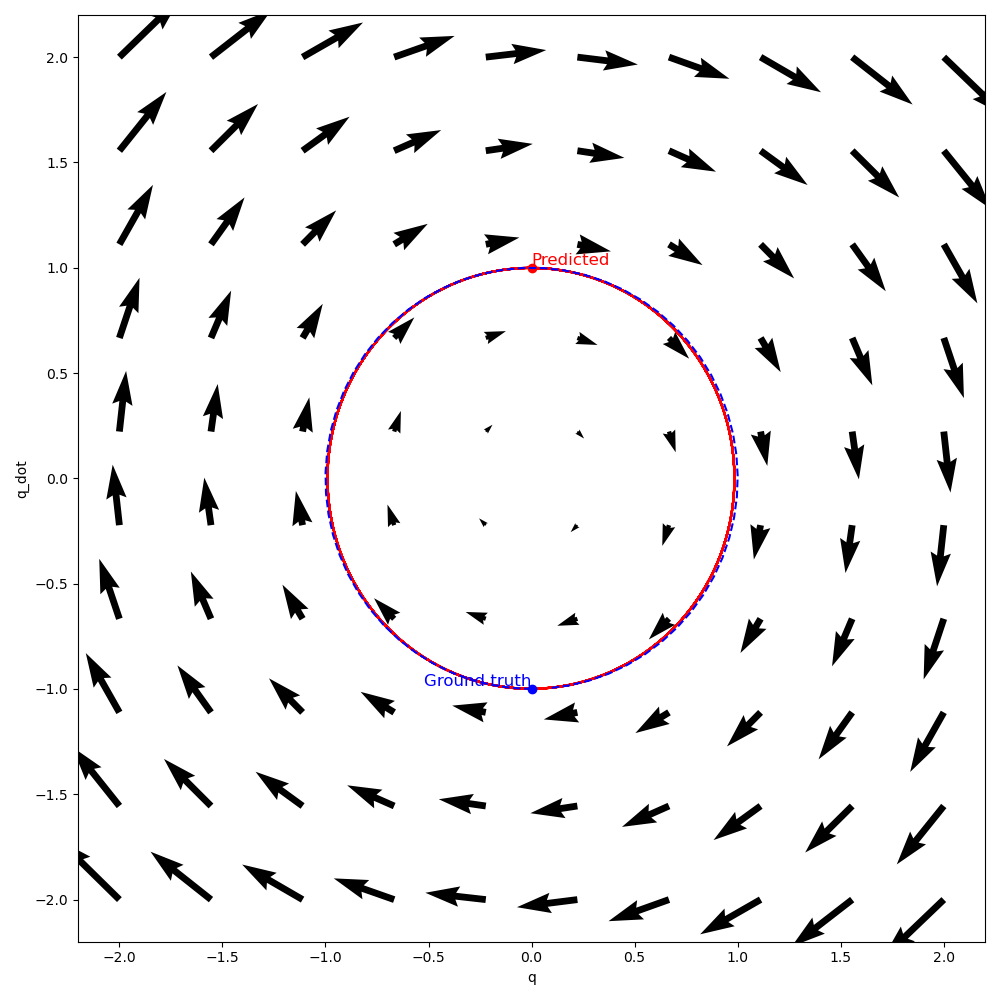
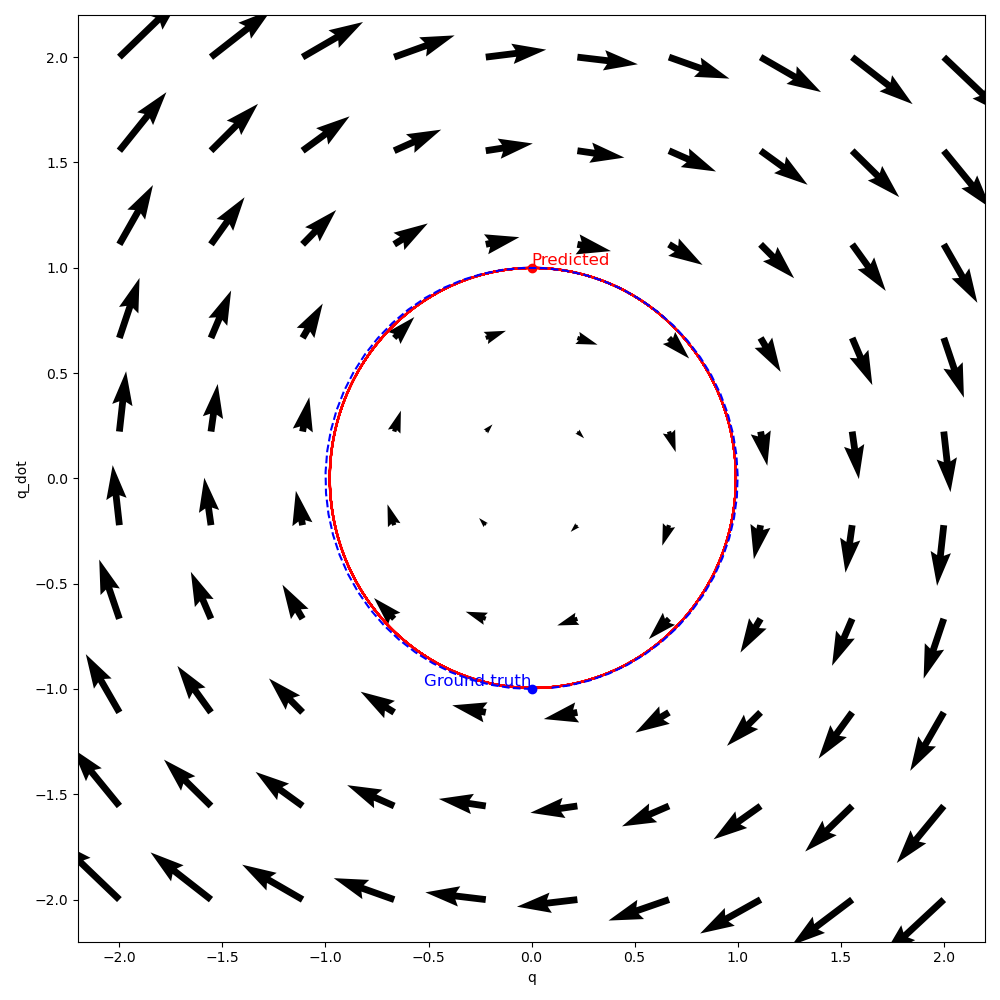
sigma=0.05

diff --git a/harmonic_oscillator.py b/harmonic_oscillator.py
@@ -33,7 +33,7 @@ def harmonic_oscillator_generate_path(t_range_start, t_range_end, dt, amplitude,
         dataset.append([q, q_dot])
         targets.append(q_dot_dot)
         
-    dataset = torch.tensor(dataset, dtype=torch.float32, device=device, requires_grad=True)
+    dataset = torch.tensor(dataset, dtype=torch.float32, device=device)
     targets = torch.tensor(targets, dtype=torch.float32, device=device)
     return dataset, targets
 
@@ -44,6 +44,14 @@ def generate_harmonic_oscillator_dataset(device):
     path_start = random.randint(0, 314)/100
 
     dataset, targets = harmonic_oscillator_generate_path(path_start, path_start + 2*pi, 0.1, random_amplitude, random_phi, device)
+
+    noise = torch.randn_like(dataset) * 0.05
+    dataset += noise
+
+    dataset.requires_grad_()
+    
+    noise = torch.randn_like(targets) * 0.05
+    targets += noise
 
     return dataset, targets
 
@@ -60,11 +68,12 @@ def train_iteration_cb(model, i, mean_losses):
 
 def main():
     model = load_model_or_make_new(model_path, device)
-    train_loop(model, 1e-4, 10, generate_harmonic_oscillator_dataset, device, train_iteration_cb)
+    train_loop(model, 1e-3, 400, generate_harmonic_oscillator_dataset, device, train_iteration_cb)
 
     plt.cla()
 
     ground_truth_path, _ = harmonic_oscillator_generate_path(0, 2*pi, 0.1, 1, pi/2, device)
+    ground_truth_path.requires_grad_()
 
     n_rotations = 10
     rg4_dt = 0.1

diff --git a/README.md b/README.md
@@ -1,0 +1,17 @@
+# Lagrangian NN
+Project of a lagrangian nn inspired by a paper [Lagrangian Neural Networks](https://arxiv.org/pdf/2003.04630).
+
+## Problem
+Consider a system of a harmonic oscillator, described by equations:
+$$q(t) = A \cos(\omega t + \phi)$$.
+$$\dot{q}(t) = -A \omega \sin(\omega t + \phi)$$.
+$$\ddot{q}(t) = -A \omega^2 \cos(\omega t + \phi)$$.
+
+Lagrangian network has a goal to learn a real function $L(q, \dot{q})$ that approximates the lagrangian of that system. In general one would want to learn such lagrangian without EOMs, given only the data points $$\{q_i \dot{q}_i, \ddot{q}_i\}$$.
+
+## Approach
+To train such network, one needs a way to calculate loss of such network. Suppose, $(q(t), \dot{q}(t))$ are coordinates in phase space, parametrized by $t$. Then, Euler-Lagrange equations is:
+$$\frac{d}{dt} \frac{\partial L}{\partial \dot{q}} - \frac{\partial L}{\partial q} = 0$$.
+Applying chain rule and rearranging, it follows:
+$$\ddot{q} = H^{-1} (\frac{\partial L}{\partial{q}} - [\frac{\partial L}{\partial {q_i} \partial{\dot q_j}} ] \dot{q} )$$, where $H$ is a Hessian matrix.
+
